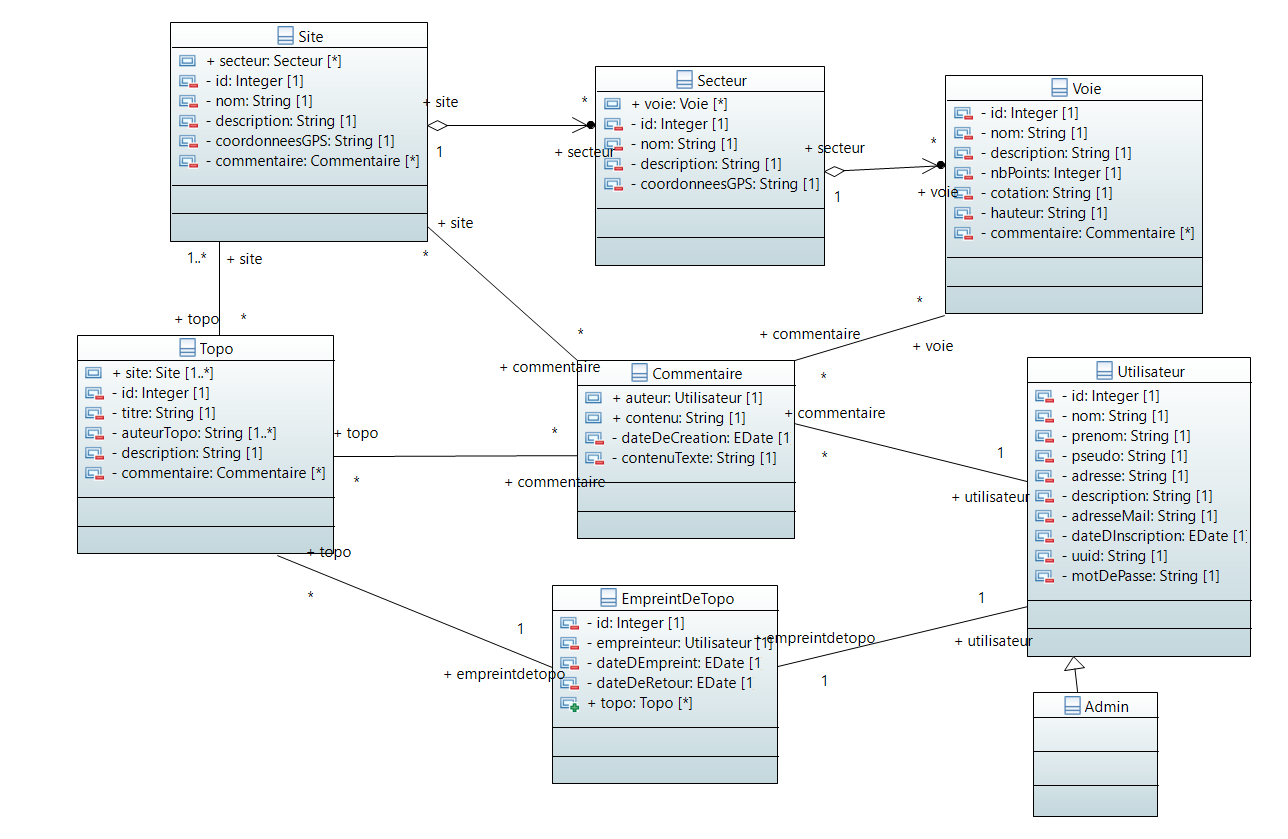
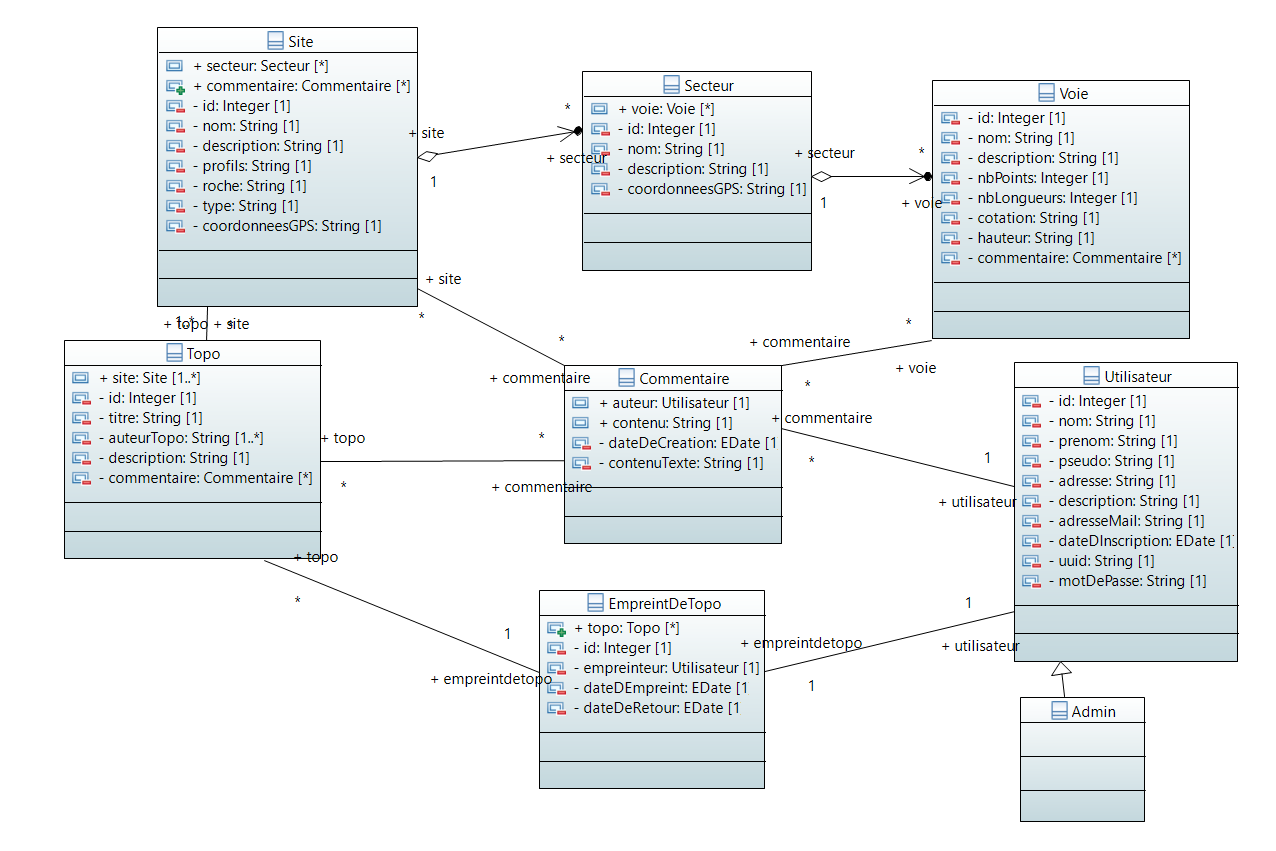
Modification beans dans model

diff --git a/escalade-model/src/main/java/com/gg/proj/model/bean/Voie.java b/escalade-model/src/main/java/com/gg/proj/model/bean/Voie.java
@@ -5,9 +5,10 @@ public class Voie implements Model {
     // propriétés
     private Integer id;
     private String nom;
+    private String description;
     private Integer nombreDePoints;
+    private Integer nombreDeLongueurs;
     private String cotation;
-    // todo passer hauteur en integer ici et dans la bd
     private String hauteur;
 
     // constructeurs
@@ -35,12 +36,28 @@ public class Voie implements Model {
         this.nom = nom;
     }
 
+    public String getDescription() {
+        return description;
+    }
+
+    public void setDescription(String description) {
+        this.description = description;
+    }
+
     public Integer getNombreDePoints() {
         return nombreDePoints;
     }
 
     public void setNombreDePoints(Integer nombreDePoints) {
         this.nombreDePoints = nombreDePoints;
+    }
+
+    public Integer getNombreDeLongueurs() {
+        return nombreDeLongueurs;
+    }
+
+    public void setNombreDeLongueurs(Integer nombreDeLongueurs) {
+        this.nombreDeLongueurs = nombreDeLongueurs;
     }
 
     public String getCotation() {

diff --git a/escalade-model/src/main/java/com/gg/proj/model/bean/Site.java b/escalade-model/src/main/java/com/gg/proj/model/bean/Site.java
@@ -8,6 +8,9 @@ public class Site implements Model {
     private Integer id;
     private String nom;
     private String description;
+    private String profils;
+    private String roche;
+    private String type;
     private Point coordonneesGPS;
     // constructeurs
 

diff --git a/escalade-model/src/main/java/com/gg/proj/model/bean/Commentaire.java b/escalade-model/src/main/java/com/gg/proj/model/bean/Commentaire.java
@@ -41,5 +41,4 @@ public class Commentaire implements Model {
     public void setContenuTexte(String contenuTexte) {
         this.contenuTexte = contenuTexte;
     }
-
 }
